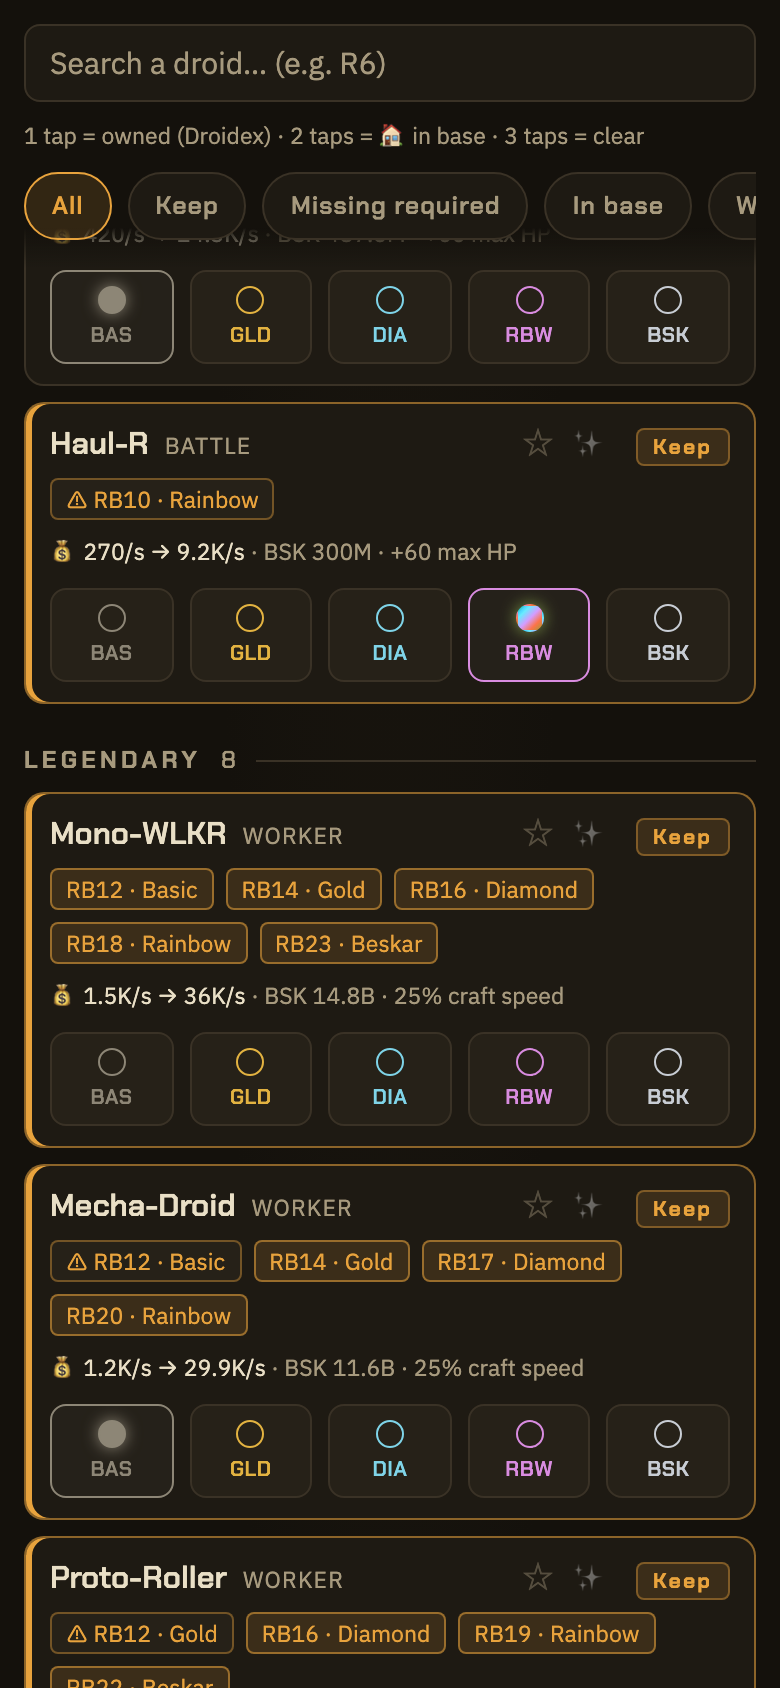
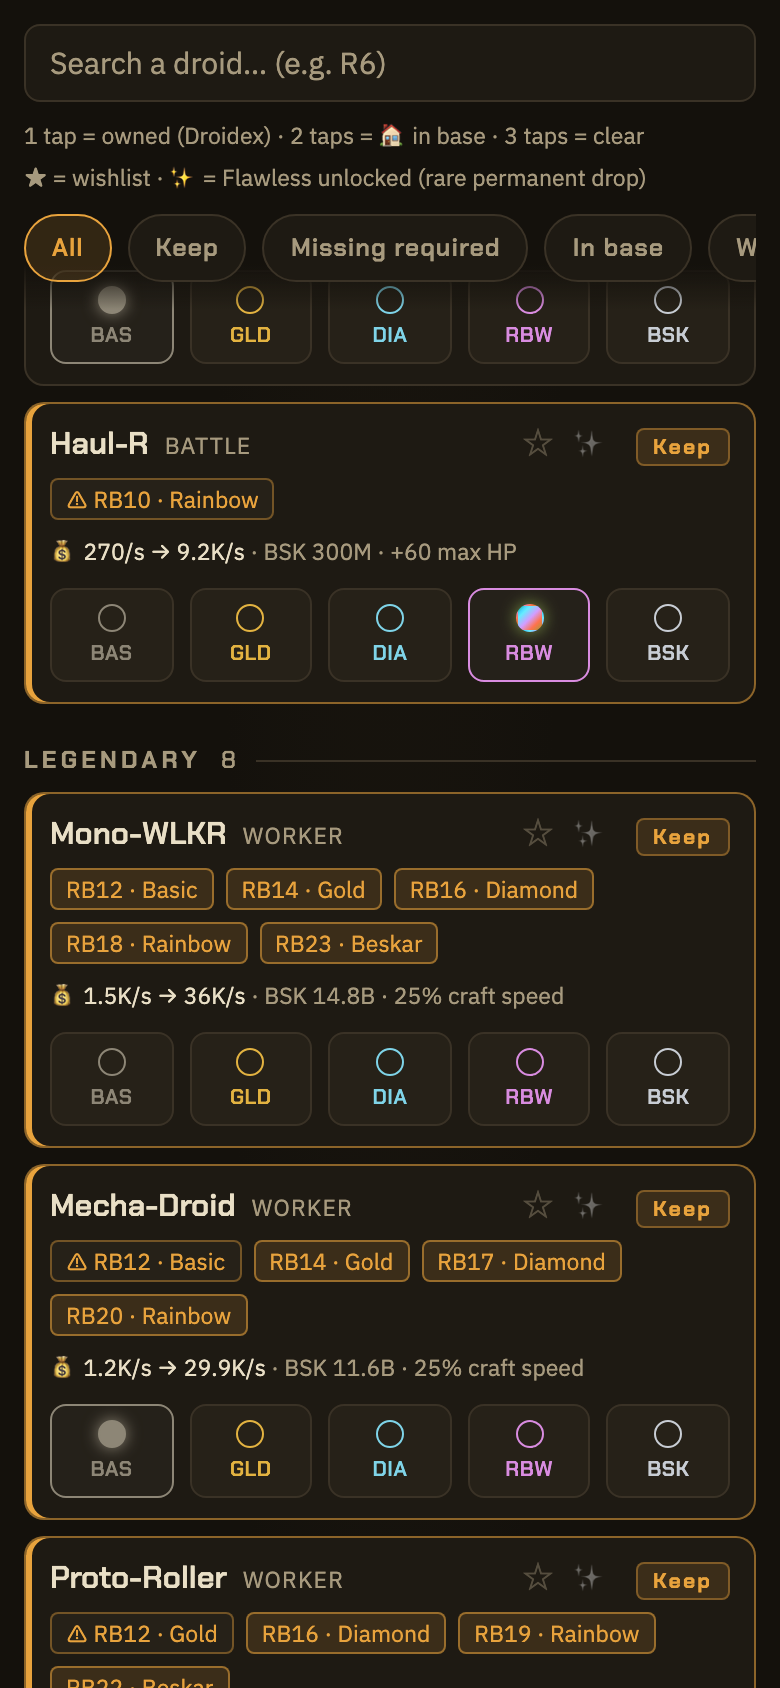
v1.2.2: legend and tooltips for the wishlist ★ and Flawless ✨ toggles

Changed region(s): [[0.0308, 0.0924, 0.8615, 0.1848], [0.9231, 0.0924, 0.9846, 0.154]]

diff --git a/site/i18n.js b/site/i18n.js
@@ -31,6 +31,9 @@ const I18N = {
     searchPlaceholder: 'Search a droid… (e.g. R6)',
     searchAria: 'Search',
     hint: '1 tap = owned (Droidex) · 2 taps = 🏠 in base · 3 taps = clear',
+    legendIcons: '★ = wishlist · ✨ = Flawless unlocked (rare permanent drop)',
+    wishTip: 'Add to wishlist (droids you are hunting for)',
+    flawTip: 'Flawless unlocked: rare permanent drop (1/1000 Basic → 1/100 Beskar), kept in your Droidex forever',
     filterAll: 'All',
     filterKeep: 'Keep',
     filterMissing: 'Missing required',
@@ -104,6 +107,9 @@ const I18N = {
     searchPlaceholder: 'Chercher un droïde… (ex : R6)',
     searchAria: 'Recherche',
     hint: '1 appui = possédé (Droidex) · 2 appuis = 🏠 en base · 3 appuis = effacer',
+    legendIcons: '★ = recherché (wishlist) · ✨ = Flawless obtenu (drop rare permanent)',
+    wishTip: 'Ajouter à la wishlist (droïdes que tu chasses)',
+    flawTip: 'Flawless obtenu : drop rare permanent (1/1000 Basic → 1/100 Beskar), conservé à vie dans le Droidex',
     filterAll: 'Tous',
     filterKeep: 'À garder',
     filterMissing: 'Manquants requis',

diff --git a/site/index.html b/site/index.html
@@ -82,6 +82,9 @@
     <div style="font-size:11.5px;color:var(--sand-dim);margin-top:7px" data-i18n="hint">
       1 tap = owned (Droidex) · 2 taps = 🏠 in base · 3 taps = clear
     </div>
+    <div style="font-size:11.5px;color:var(--sand-dim);margin-top:3px" data-i18n="legendIcons">
+      ★ = wishlist · ✨ = Flawless unlocked (rare permanent drop)
+    </div>
     <div class="chips" role="tablist">
       <button class="chip active" data-filter="all" data-i18n="filterAll">All</button>
       <button class="chip" data-filter="keep" data-i18n="filterKeep">Keep</button>

diff --git a/site/app.js b/site/app.js
@@ -333,6 +333,7 @@ function renderDroid(d){
   wishBtn.textContent=wishOn?'★':'☆';
   wishBtn.setAttribute('aria-label',t('wishAria')+' : '+d.n);
   wishBtn.setAttribute('aria-pressed',wishOn?'true':'false');
+  wishBtn.title=t('wishTip');
   wishBtn.addEventListener('click',()=>{
     if(state.wish[d.id]) delete state.wish[d.id]; else state.wish[d.id]=true;
     scheduleSave();renderAll();
@@ -345,6 +346,7 @@ function renderDroid(d){
   flawBtn.textContent='✨';
   flawBtn.setAttribute('aria-label',t('flawAria')+' : '+d.n);
   flawBtn.setAttribute('aria-pressed',flawOn?'true':'false');
+  flawBtn.title=t('flawTip');
   flawBtn.addEventListener('click',()=>{
     if(state.flawless[d.id]) delete state.flawless[d.id]; else state.flawless[d.id]=true;
     scheduleSave();renderAll();

diff --git a/site/version.js b/site/version.js
@@ -1,4 +1,4 @@
 /* Version de l'application — source unique.
    Incrémenter à CHAQUE mise à jour du site : elle alimente l'affichage du
    footer et la version du cache du service worker (invalidation offline). */
-const APP_VERSION = '1.2.1';
+const APP_VERSION = '1.2.2';

diff --git a/CHANGELOG.md b/CHANGELOG.md
@@ -1,5 +1,9 @@
 # Changelog
 
+## 1.2.2 — 2026-07-11
+
+- Legend line explaining the ★ (wishlist) and ✨ (Flawless) toggles, plus hover tooltips
+
 ## 1.2.1 — 2026-07-11
 
 - Header now references Fortnite: "Fortnite · Star Wars: Droid Tycoon"